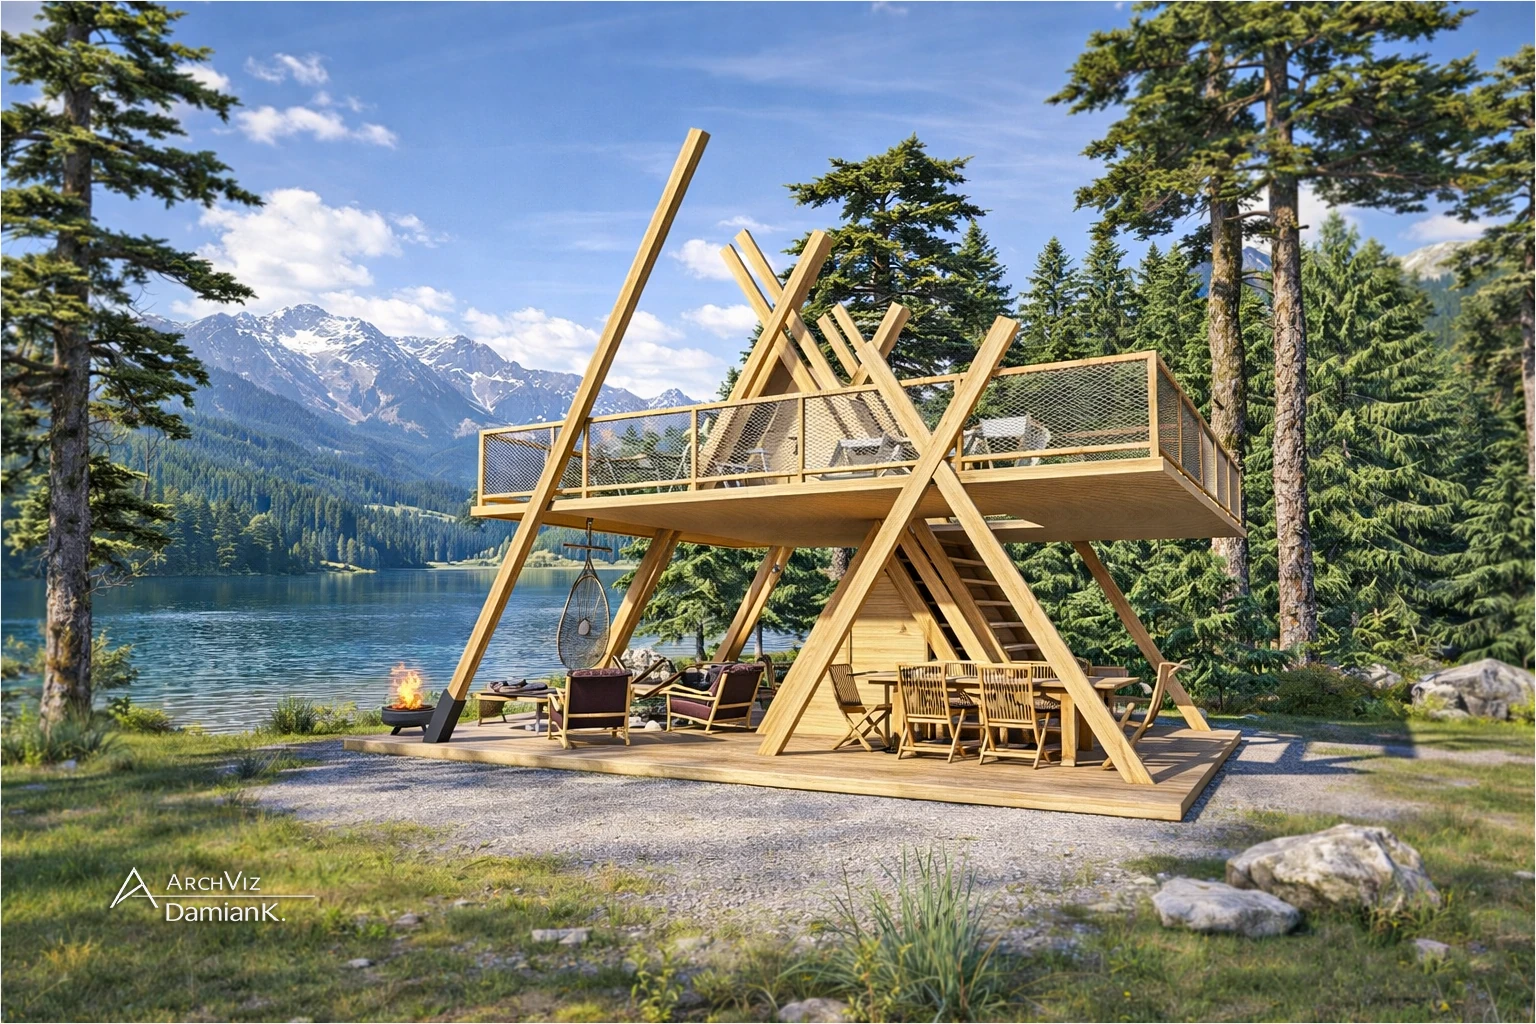
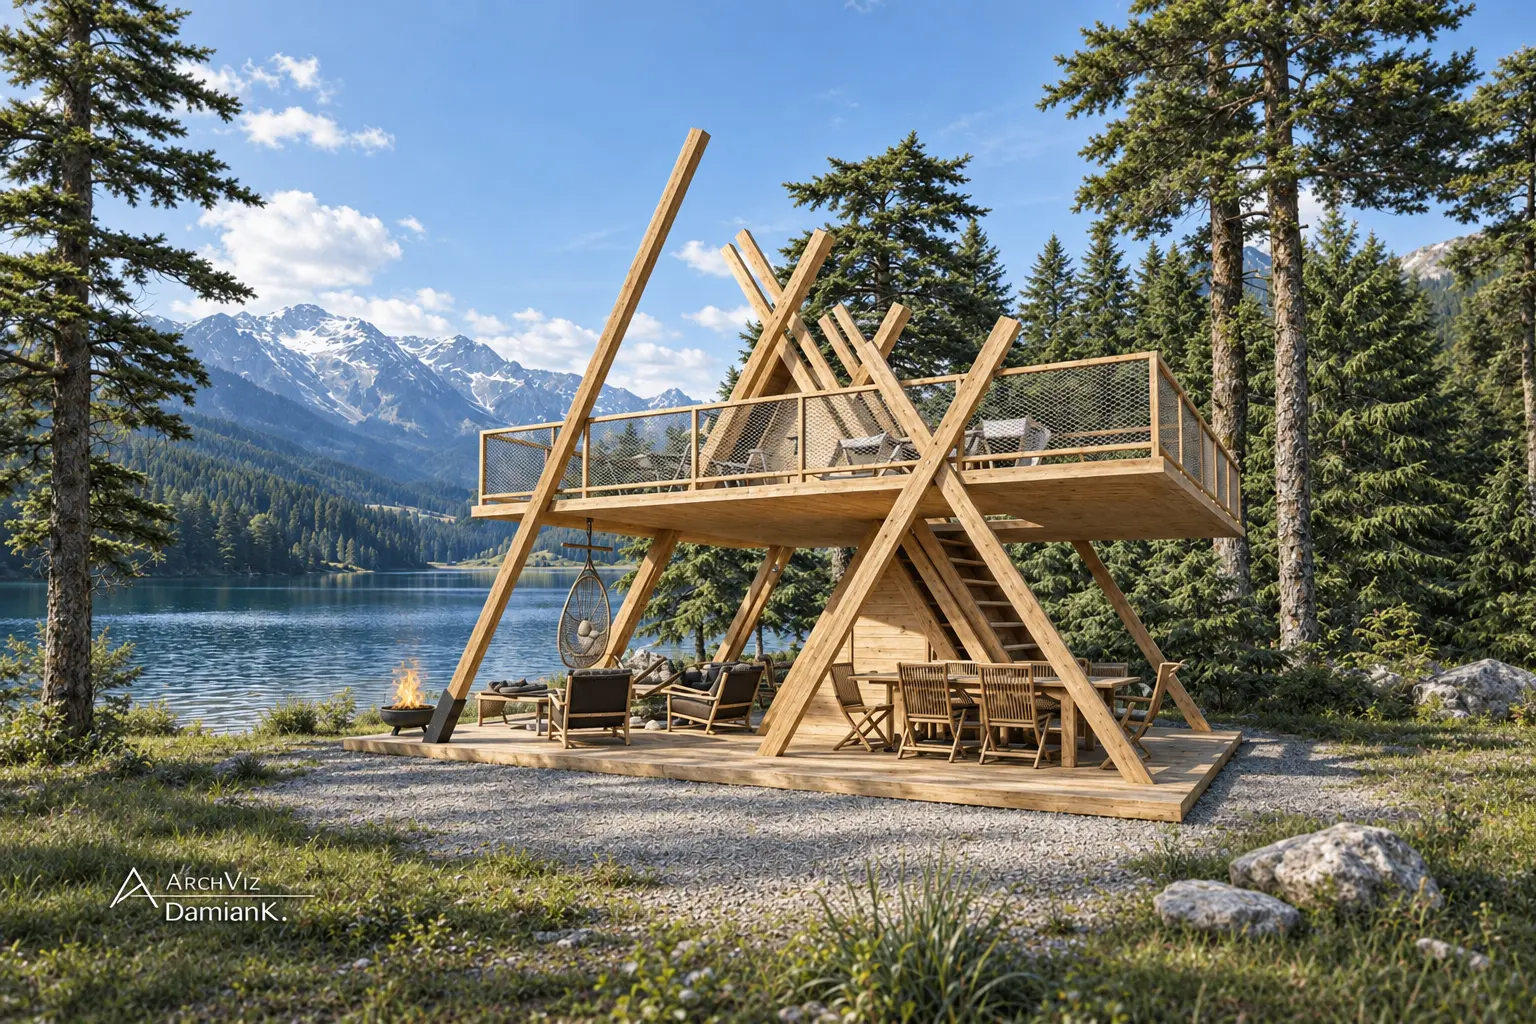
Add files via upload

diff --git a/index.html b/index.html
@@ -92,6 +92,7 @@ button{font:inherit}
 .focus-section{padding:112px 0;background:var(--ink);color:#fff}.focus-grid{display:grid;grid-template-columns:minmax(0,.95fr) minmax(420px,1.05fr);gap:100px;align-items:center}.light-title{margin:0;font-family:var(--serif);font-size:clamp(50px,5vw,82px);font-weight:400;letter-spacing:-.05em;line-height:.95}.focus-copy{max-width:600px;margin:28px 0 0;color:rgba(255,255,255,.64);line-height:1.75}.focus-tags{display:grid;grid-template-columns:repeat(3,1fr);border-top:1px solid var(--line-light);border-left:1px solid var(--line-light)}.focus-tags span{min-height:92px;display:flex;align-items:end;padding:16px;border-right:1px solid var(--line-light);border-bottom:1px solid var(--line-light);font-size:11px;font-weight:700;letter-spacing:.07em;text-transform:uppercase;color:rgba(255,255,255,.8)}
 
 .concepts-section{background:var(--paper-2)}.concept-grid{display:grid;grid-template-columns:repeat(3,1fr);gap:18px}.concept-card{content-visibility:auto;contain-intrinsic-size:520px 420px;background:var(--paper)}.concept-card img{width:100%;aspect-ratio:16/10;object-fit:cover}.concept-card>div{padding:22px 22px 27px}.concept-card span{font-size:9px;font-weight:800;letter-spacing:.13em;color:var(--muted)}.concept-card h3{margin:9px 0 12px;font-family:var(--serif);font-size:36px;font-weight:400;letter-spacing:-.03em}.concept-card p{margin:0;color:var(--muted);font-size:13px;line-height:1.65}
+.concept-card.ana-tower-card img{display:block;height:auto;aspect-ratio:auto;object-fit:contain;object-position:center;background:#e8e2d8}
 
 .interior-grid{display:grid;grid-template-columns:repeat(12,1fr);gap:12px}.interior-grid figure{margin:0;grid-column:span 4;min-height:420px;overflow:hidden;background:#ccc}.interior-grid .interior-large{grid-column:span 8;grid-row:span 2;min-height:852px}.interior-grid img{width:100%;height:100%;object-fit:cover}
 
@@ -456,8 +457,8 @@ button{font:inherit}
 <h3>PINETA MARE</h3>
 <p data-i18n="concept_1_text">A boutique Mediterranean camping and glamping resort concept with mobile homes, glamping tents, camping pitches, restaurant, pool and landscaped guest areas.</p>
 </div>
-</article><article aria-label="Open Glamping Pod Lara on Behance" class="concept-card" onclick="window.open('https://www.behance.net/gallery/99281167/glamping-pod-Lara','_blank','noopener')" onkeydown="if(event.key==='Enter'||event.key===' '){event.preventDefault();this.click();}" role="link" style="cursor:pointer" tabindex="0">
-<img alt="ANA Glamping Tower architectural visualization by Archviz Damian" decoding="async" height="1024" loading="lazy" src="assets/images/28-ana-glamping-tower-architectural-visualization-by-ar-ea227e83a5.webp" style="object-position:center 48%;" width="1536"/>
+</article><article aria-label="Open ANA Glamping Tower on Behance" class="concept-card ana-tower-card" onclick="window.open('https://www.behance.net/gallery/99281167/glamping-pod-Lara','_blank','noopener')" onkeydown="if(event.key==='Enter'||event.key===' '){event.preventDefault();this.click();}" role="link" style="cursor:pointer" tabindex="0">
+<img alt="ANA Glamping Tower architectural visualization by Archviz Damian" decoding="async" height="1024" loading="lazy" src="assets/images/28-ana-glamping-tower-architectural-visualization-by-ar-ea227e83a5.webp" width="1536"/>
 <div><span data-i18n="concept_2_meta">GLAMPING TOWER · CONCEPT DESIGN</span><h3>ANA GLAMPING TOWER</h3><p data-i18n="concept_2_text">An elevated glamping tower concept combining panoramic upper-deck living, a compact timber structure and a strong hospitality identity.</p></div>
 </article><article class="concept-card">
 <img alt="Štinjan property potential concept visualization" decoding="async" height="675" loading="lazy" src="assets/images/29-tinjan-property-potential-concept-visualization-e2a4324f8b.webp" width="1200"/>
